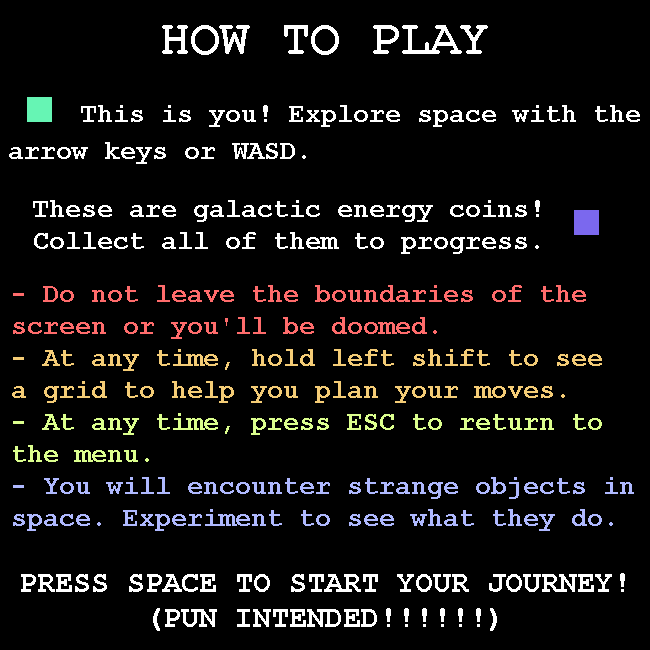
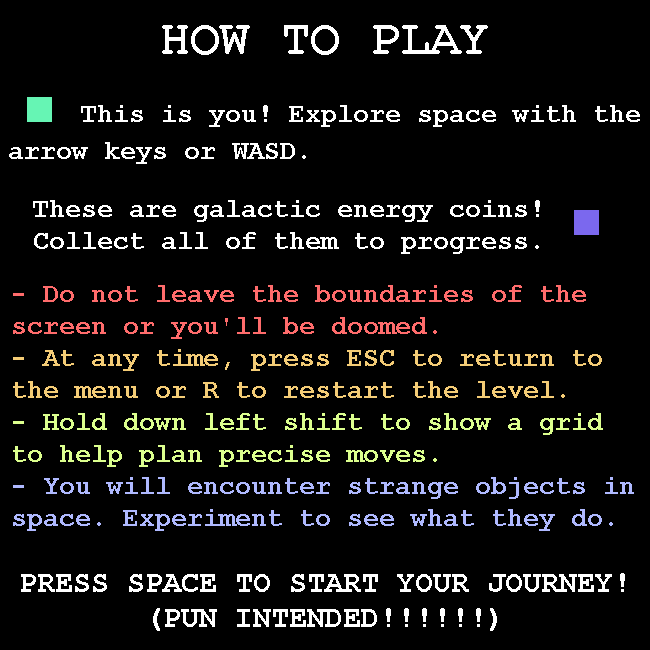
Tweaks

Changed region(s): [[0.0, 0.5231, 0.8923, 0.7385]]

diff --git a/src/lib/premadeLevels.py b/src/lib/premadeLevels.py
@@ -808,7 +808,7 @@ C9 = level.Level(
 
 C10 = level.Level(
     players = [
-        p.Player(50.0, 575.0,(89, 129, 45)),
+        p.Player(50.0, 575.0,(89, 129, 45), inverted = False),
     ],
     levelObjects = [
         b.Entity(0, 0, 50, 100, (49, 87, 54)),
@@ -818,18 +818,15 @@ C10 = level.Level(
         b.Entity(600, 550, 650, 650, (49, 87, 54)),
         b.Entity(550, 600, 650, 650, (49, 87, 54)),
         b.Entity(0, 600, 100, 650, (49, 87, 54)),
-        s.Antiplatform(0, 425, 175, 475),
+        s.Antiplatform(0, 425, 175, 475, (85, 51, 51)),
         s.Lever(450, 350, 500, 650, "left"),
-        s.Teleporter(50, 250, 575, 475, 3, (144, 169, 85)),
         s.Redirector(225, 0, "down"),
         s.NullCube(225, 50),
         s.Redirector(425, 0, "left"),
-        s.Redirector(600, 250, "down"),
         b.Entity(0, 475, 50, 600, (49, 87, 54)),
         s.NullCube(550, 200),
         s.Redirector(600, 375, "left"),
         s.NullCube(325, 375),
-        s.Cloud(150, 300, 500, 325),
         b.Coin(0, 275,(144, 69, 85)),
         b.Coin(50, 50,(144, 69, 85)),
         b.Coin(575, 50,(144, 69, 85)),
@@ -837,6 +834,9 @@ C10 = level.Level(
         b.Coin(575, 575,(144, 69, 85)),
         b.Entity(375, 200, 425, 250, (49, 87, 54)),
         s.Lever(300, 150, 500, 200, "up"),
+        s.Redirector(600, 275, "down"),
+        s.Teleporter(50, 275, 575, 475, 3, (144, 169, 85)),
+        s.Cloud(150, 300, 375, 325),
     ],
     background = ((10, 30, 10),),
     text = "",
@@ -1184,10 +1184,7 @@ D9 = level.Level(
         b.Coin(350, 575,(128, 0, 128)),
         b.Entity(325, 200, 375, 325, (113, 113, 140)),
         b.Coin(300, 200,(128, 0, 128)),
-        b.Entity(150, 225, 200, 275, (113, 113, 140)),
         b.Coin(50, 600,(128, 0, 128)),
-        b.Entity(100, 250, 200, 275, (113, 113, 140)),
-        b.Entity(175, 200, 200, 225, (113, 113, 140)),
         b.Entity(100, 500, 125, 600, (113, 113, 140)),
         b.Entity(125, 525, 150, 600, (113, 113, 140)),
         b.Entity(375, 250, 400, 325, (113, 113, 140)),
@@ -1203,6 +1200,7 @@ D9 = level.Level(
         b.Entity(275, 75, 650, 100, (113, 113, 140)),
         b.Entity(300, 100, 650, 125, (113, 113, 140)),
         b.Entity(100, 0, 175, 25, (113, 113, 140)),
+        s.NullCube(150, 225),
     ],
     background = (93, 136, 226),
     text = "9.Tag Team",

diff --git a/README.md b/README.md
@@ -49,6 +49,9 @@ You can directly edit your level's code to make tweaks that the editor doesn't s
 With your primary pointer on the top-left location of where you want your text, press TAB. Then, input your desired text into the terminal. (This feature uses Python's input() function.) The text should appear on screen.
 
 # New Features and Changelog
+## Version 1.5 (7/10/2024):
+* Added new "How to Play" and "Game Over" screens.
+* The player can now see the grid by holding Lshift at any time.
 ## Version 1.4 (7/8/2024):
 * Finished D-10. World D now complete.
 * Started world E with E-1 through E-5.
